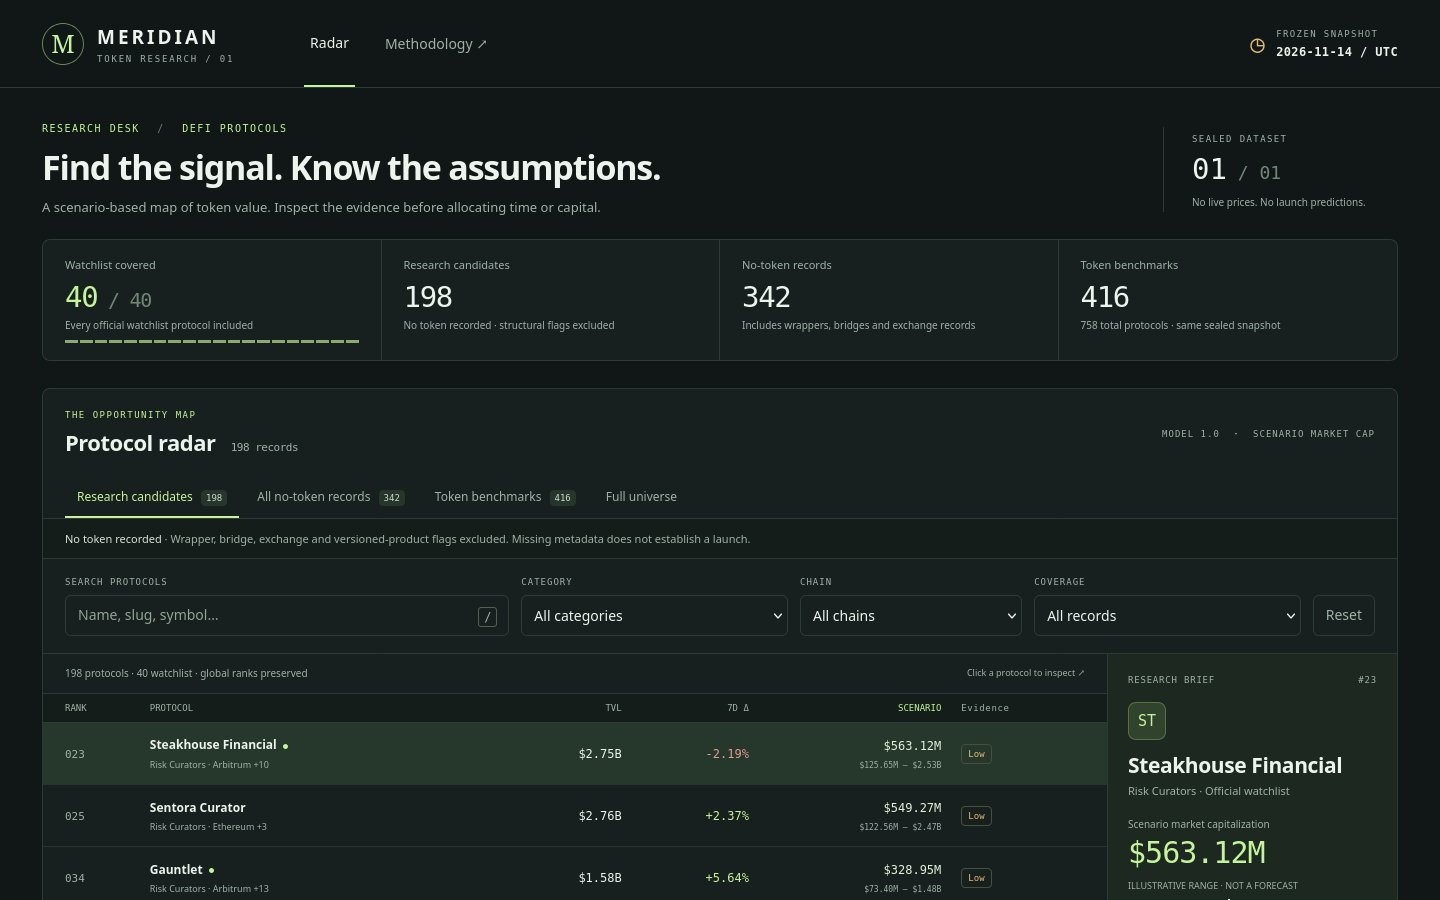
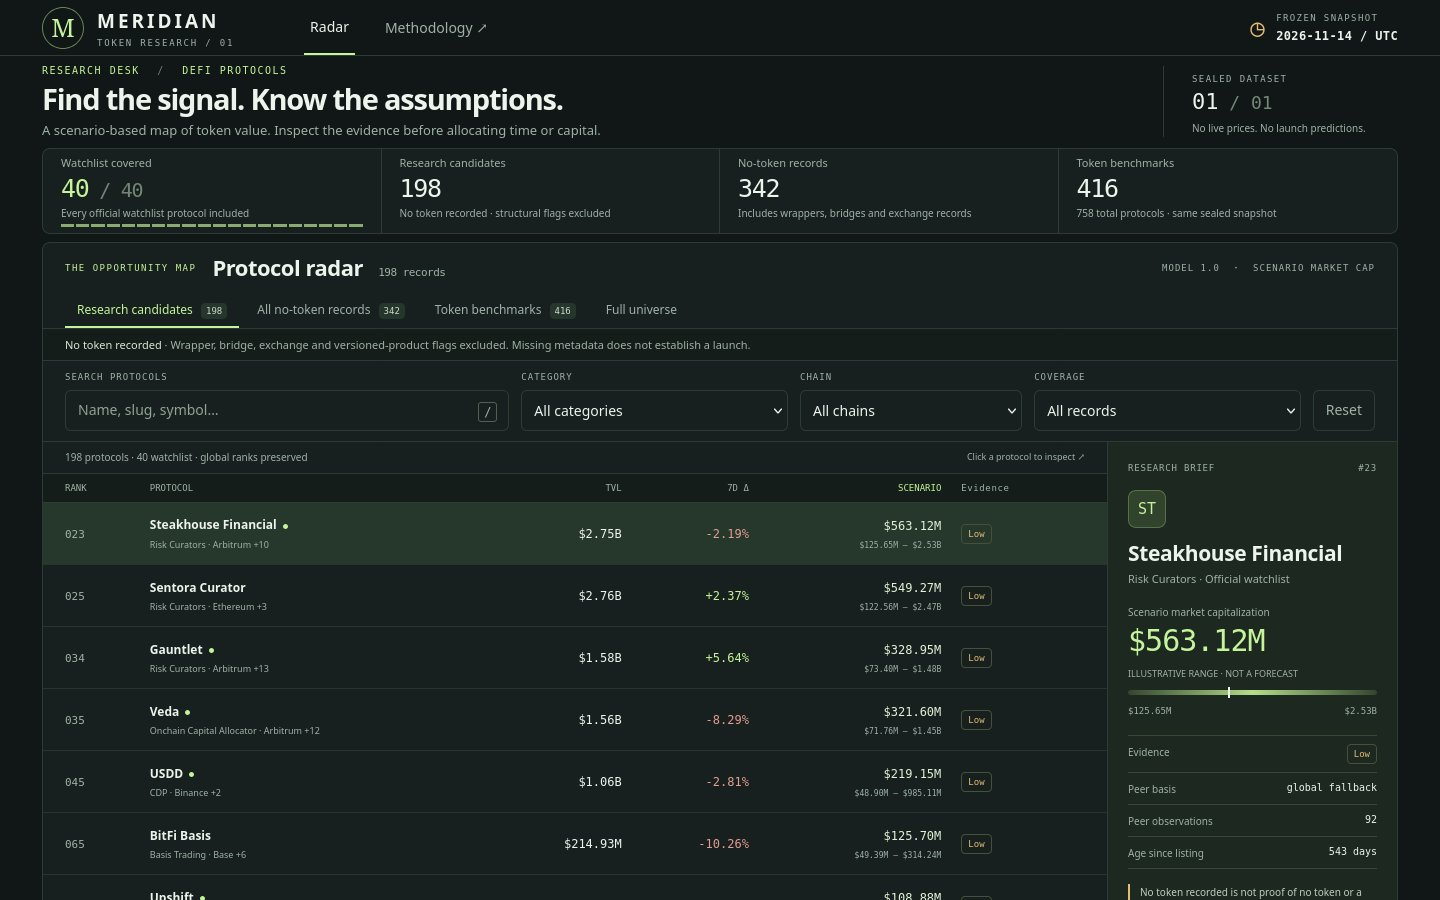
Finalize compact radar layout, ownership and normalized output guard

diff --git a/dashboard/app.css b/dashboard/app.css
@@ -1,6 +1,27 @@
 /* Meridian: mineral charcoal, pale mint, muted amber. System fonts only. */
 :root{--bg:#101716;--panel:#17201e;--panel2:#1c2724;--line:#2d3b36;--ink:#edf4ed;--muted:#a0b2a8;--mint:#c6f49c;--amber:#e4bd77;--red:#e49b93;--mono:ui-monospace,SFMono-Regular,Consolas,monospace}
 *{box-sizing:border-box}body{margin:0;background:var(--bg);color:var(--ink);font:14px/1.5 system-ui,-apple-system,BlinkMacSystemFont,"Segoe UI",sans-serif}button,input,select{font:inherit}button{cursor:pointer;color:inherit}button,input,select{border:1px solid var(--line);background:var(--panel);border-radius:6px}button:hover{background:#2a3931}button:disabled{opacity:.35;cursor:default}button:focus-visible,a:focus-visible,input:focus-visible,select:focus-visible,div[tabindex]:focus-visible{outline:2px solid var(--mint);outline-offset:3px}button{padding:8px 12px}input,select{color:var(--ink);padding:10px 12px;width:100%;height:41px}select{padding-right:24px}input::placeholder{color:#92a397}h1,h2,h3,p{margin-top:0}h1{font-size:34px;line-height:1.13;letter-spacing:-1.2px;margin-bottom:12px;font-weight:550}h2{font-size:22px;letter-spacing:-.5px;margin-bottom:0;font-weight:550}h3{font-size:16px;font-weight:600;margin-bottom:8px}.topbar{height:88px;border-bottom:1px solid var(--line);display:flex;align-items:center;justify-content:space-between;padding:0 42px;gap:30px}.brand{display:flex;gap:13px;align-items:center;font-size:19px;letter-spacing:3px;font-weight:600}.brand-mark{font:25px Georgia,serif;display:grid;place-items:center;width:42px;height:42px;color:var(--mint);border:1px solid #688359;border-radius:50%;letter-spacing:-3px;padding-right:3px}.brand-sub{display:block;font:9px var(--mono);letter-spacing:1.8px;margin-top:3px;color:var(--muted)}nav{display:flex;gap:24px;margin-right:auto;margin-left:40px;height:100%;align-items:stretch}nav button{border:0;border-radius:0;background:none;padding:0 6px;color:var(--muted)}nav .nav-active{border-bottom:2px solid var(--mint);color:var(--ink)}nav button:hover{background:none;color:var(--mint)}.freeze{display:flex;gap:10px;align-items:center;font:9px var(--mono);letter-spacing:1.4px;color:var(--muted)}.freeze strong{display:block;color:var(--ink);font-size:12px;letter-spacing:.4px;margin-top:4px}.frozen-icon{font-size:24px;color:var(--amber)}main{max-width:1600px;margin:auto;padding:30px 42px 0}.intro{display:flex;align-items:center;justify-content:space-between;padding:4px 0 22px;gap:30px}.eyebrow{font:10px var(--mono);letter-spacing:1.5px;color:var(--mint);margin-bottom:12px}.eyebrow span{color:#6f8176;margin:0 10px}.lede{color:var(--muted);font-size:13px;margin-bottom:0}.edition{border-left:1px solid var(--line);padding-left:28px;min-width:235px}.edition>span{font:9px var(--mono);letter-spacing:1.4px;color:var(--muted)}.edition strong{display:block;font:29px var(--mono);margin:4px 0}.edition strong span{color:#74887a;font-size:18px}.edition small{color:var(--muted);font-size:10px}.metrics{display:grid;grid-template-columns:repeat(4,1fr);border:1px solid var(--line);margin-bottom:27px;border-radius:8px;background:var(--panel)}.metric{padding:17px 22px;border-right:1px solid var(--line)}.metric:last-child{border:0}.metric-label{color:var(--muted);font-size:11px;display:flex;justify-content:space-between}.metric-value{font:29px var(--mono);letter-spacing:-1.3px;margin:6px 0 3px}.metric-value .slash{color:#718675;font-size:20px}.metric-note{font-size:10px;color:var(--muted)}.metric:first-child .metric-value{color:var(--mint)}.mini-bar{display:flex;gap:2px;margin-top:8px;height:3px}.mini-bar span{flex:1;background:var(--mint);opacity:.65}.workspace{border:1px solid var(--line);border-radius:8px;background:var(--panel);overflow:hidden}.workspace-head{display:flex;justify-content:space-between;align-items:center;padding:20px 22px 17px;gap:12px}.workspace-head .eyebrow{font-size:9px;margin-bottom:5px}.workspace-head h2>span{font:11px var(--mono);color:var(--muted);margin-left:10px}.model-tag{font:9px var(--mono);letter-spacing:1px;color:var(--muted)}.model-tag span{padding:0 7px;color:var(--mint)}.view-tabs{display:flex;gap:6px;padding:0 22px;border-bottom:1px solid var(--line)}.view-tabs button{font-size:12px;border:0;background:none;border-radius:0;padding:11px 12px;color:var(--muted);border-bottom:2px solid transparent}.view-tabs button[aria-pressed=true]{border-bottom-color:var(--mint);color:var(--mint)}.view-tabs button span{background:#26362c;border-radius:4px;padding:2px 5px;font:9px var(--mono);margin-left:5px;color:#ccdbcb}.view-note{font-size:11px;color:var(--muted);padding:11px 22px;background:#141d19;border-bottom:1px solid var(--line)}.view-note b{color:#d9e6d7;font-weight:500}.filters{display:grid;grid-template-columns:2fr 1.2fr 1fr 1.2fr auto;align-items:end;gap:12px;padding:17px 22px}.label{font:9px var(--mono);color:var(--muted);display:block;letter-spacing:1px;margin-bottom:7px}.search-wrap{position:relative}.search-wrap kbd{position:absolute;right:12px;bottom:9px;border:1px solid #526053;color:var(--muted);padding:0 5px;border-radius:3px;font-size:12px}input[type=search]{padding-right:38px}.quiet{height:41px;color:var(--muted);background:none}.board-layout{display:grid;grid-template-columns:minmax(0,1fr) 284px;border-top:1px solid var(--line)}.board-main{min-width:0}.table-meta{display:flex;justify-content:space-between;padding:12px 22px;font-size:10px;color:var(--muted)}.table-meta>span:last-child{font-size:9px}.table-scroll{overflow-x:auto;scrollbar-color:#5a705e #16221a}table{width:100%;border-collapse:collapse;white-space:nowrap}th{text-align:left;color:var(--muted);font:9px var(--mono);letter-spacing:.6px;padding:8px 10px;background:#141d19;border-top:1px solid var(--line);border-bottom:1px solid var(--line)}th:first-child,td:first-child{padding-left:22px}th:last-child,td:last-child{padding-right:19px}th button{font:inherit;border:0;background:none;padding:0;text-transform:uppercase;color:inherit}th[aria-sort] button{color:var(--mint)}td{padding:12px 10px;border-bottom:1px solid #27352d;font-size:12px;height:63px}td:first-child{font:11px var(--mono);color:var(--muted)}tr.selected{background:#26372b}tr:hover{background:#223127}.numeric{text-align:right;font-family:var(--mono);font-variant-numeric:tabular-nums}.protocol-button{display:block;border:0;background:none;padding:0;text-align:left;font-size:12px;font-weight:600}.protocol-button:hover{background:none;color:var(--mint)}.protocol-meta{display:block;font-size:9px;color:var(--muted);margin-top:4px;max-width:200px;overflow:hidden;text-overflow:ellipsis}.watch-dot{display:inline-block;background:var(--mint);width:5px;height:5px;border-radius:50%;margin-left:6px;vertical-align:middle}.up{color:var(--mint)}.down{color:var(--red)}.scenario{color:#e1f2d7}.scenario small{display:block;font-size:8px;color:var(--muted);margin-top:4px}.badge{display:inline-flex;font:9px var(--mono);padding:3px 6px;border:1px solid #47503a;border-radius:4px;color:var(--amber);white-space:nowrap}.badge.moderate{color:var(--mint);border-color:#4d6440}.badge.recorded{color:#b4cbe8;border-color:#405569}.pagination{display:flex;justify-content:space-between;align-items:center;padding:12px 22px;font:10px var(--mono);color:var(--muted)}.pagination>div{display:flex;gap:8px}.pagination button{padding:4px 11px;font-size:14px}.workspace-foot{display:flex;justify-content:space-between;align-items:center;padding:11px 22px;border-top:1px solid var(--line);font-size:10px;color:var(--muted);gap:15px}.workspace-foot button{padding:0;border:0;background:none;font-size:10px;color:var(--mint)}.workspace-foot span:first-child{color:var(--ink)}#inspector{background:#1c2820;border-left:1px solid var(--line);padding:20px}.inspector-kicker{display:flex;justify-content:space-between;align-items:center;font:9px var(--mono);color:var(--muted);letter-spacing:.8px;margin-bottom:16px}.protocol-icon{width:38px;height:38px;display:grid;place-items:center;background:#31432c;border:1px solid #57724b;border-radius:8px;color:var(--mint);font:15px var(--mono);margin-bottom:13px}.inspect-title{font-size:21px;line-height:1.15;letter-spacing:-.4px;margin-bottom:6px}.inspect-category{font-size:11px;color:var(--muted);margin-bottom:17px}.inspect-value-label{font-size:10px;color:var(--muted);margin-bottom:3px}.inspect-value{font:30px var(--mono);letter-spacing:-1px;color:var(--mint)}.range-label{font-size:9px;color:var(--muted);margin:8px 0 5px}.range-track{height:5px;background:linear-gradient(90deg,#34452f,#b4dd8a,#34452f);position:relative;border-radius:5px;margin:10px 0}.range-track:after{content:"";position:absolute;left:40%;top:-3px;height:11px;width:2px;background:var(--ink)}.range-numbers{display:flex;justify-content:space-between;font:9px var(--mono);color:var(--muted)}.preview-facts{margin:18px 0 15px;border-top:1px solid #394736}.preview-facts>div{display:flex;justify-content:space-between;padding:8px 0;border-bottom:1px solid #394736;font-size:10px;color:var(--muted)}.preview-facts strong{font:10px var(--mono);color:var(--ink)}.caution{font-size:10px;color:#c4cdbb;line-height:1.6;padding-left:10px;border-left:2px solid var(--amber);margin:14px 0}.primary{background:var(--mint);color:#1c2a16;border-color:var(--mint);font-size:11px;font-weight:650;width:100%;padding:10px}.primary:hover{background:#d9ffb7}.footer{display:flex;justify-content:space-between;font:9px var(--mono);color:var(--muted);padding:19px 0 22px}.footer>span:first-child{color:var(--ink);letter-spacing:.7px}.muted{color:var(--muted)}.mobile-only{display:none}.sr-only{position:absolute;width:1px;height:1px;padding:0;overflow:hidden;clip:rect(0,0,0,0);white-space:nowrap}.skip{position:absolute;top:-60px;left:20px;z-index:20;padding:10px;background:var(--mint);color:#15200f}.skip:focus{top:10px}#empty{text-align:center;padding:60px 15px;color:var(--muted)}#empty h3{color:var(--ink)}dialog{color:var(--ink);background:var(--panel);border:1px solid #50634e;border-radius:12px;width:min(1120px,94vw);max-height:92vh;padding:0;box-shadow:0 30px 100px #0008}dialog::backdrop{background:#080e0bc9;backdrop-filter:blur(4px)}.dialog-header{display:flex;justify-content:space-between;align-items:center;padding:23px 28px;border-bottom:1px solid var(--line);gap:20px}.dialog-header .eyebrow{margin-bottom:6px}.dialog-header h2{font-size:27px}.close{font-size:24px;line-height:1;padding:7px 11px;background:none}.detail-grid{display:grid;grid-template-columns:38% 62%}.detail-evidence{padding:22px 27px;border-right:1px solid var(--line);background:#19251d}.detail-plan{padding:22px 27px}.detail-kpis{display:grid;grid-template-columns:1fr 1fr;gap:15px;margin:18px 0}.detail-kpis dt{font-size:10px;color:var(--muted)}.detail-kpis dd{margin:4px 0 0;font:14px var(--mono)}.factor-list{padding:0;margin:15px 0;list-style:none}.factor-list li{display:flex;justify-content:space-between;border-bottom:1px solid var(--line);padding:7px 0;font-size:11px;gap:10px}.factor-list b{font:11px var(--mono);color:var(--mint)}details{margin-top:13px;font-size:11px;color:var(--muted)}summary{cursor:pointer;color:var(--ink);padding:4px 0}.peer-list{font:9px/1.7 var(--mono);overflow-wrap:anywhere;max-height:130px;overflow:auto;padding:8px 0}.plan-heading{display:flex;justify-content:space-between;align-items:center;gap:10px}.plan-heading h3{font-size:19px;margin-bottom:3px}.plan-heading span{font:10px var(--mono);color:var(--mint)}.planning-label{color:var(--amber);font-size:10px;margin:10px 0 15px}.checklist{list-style:none;padding:0;margin:0;counter-reset:steps}.checklist li{display:flex;gap:10px;padding:13px 0;border-top:1px solid var(--line);font-size:11px;line-height:1.65;color:#cfdbcf}.checklist input{width:16px;height:16px;flex-shrink:0;accent-color:var(--mint);margin:3px 0}.checklist label{cursor:pointer}.checklist input:checked+label{color:var(--muted);text-decoration:line-through}.checklist label strong{display:block;font:9px var(--mono);color:var(--mint);margin-bottom:5px;letter-spacing:.6px}.detail-status{font:10px var(--mono);color:var(--muted);margin-top:12px}.method-body{padding:25px 28px}.large-copy{font-size:19px;color:#d9e8d4}.formula{background:#253621;border:1px solid #4b6141;color:var(--mint);padding:17px;font:14px var(--mono);text-align:center;margin:20px 0}.formula b{color:#809975;padding:0 6px}.method-grid{display:grid;grid-template-columns:1fr 1fr;gap:23px 30px}.method-grid p{color:var(--muted);font-size:12px;line-height:1.7}.step-label{display:block;color:var(--mint);font:9px var(--mono);letter-spacing:1px;margin-bottom:9px}.method-alert{border-left:2px solid var(--amber);background:#2a2b20;padding:12px 16px;margin:15px 0;font-size:12px;color:#e0d5b8}.method-body>.muted,.source-text{font-size:10px;overflow-wrap:anywhere}.warning-list{padding-left:15px;font-size:10px;color:var(--amber);line-height:1.65}
+/* Desktop density: reclaim chrome space, never reduce table or detail typography. */
+@media(min-width:1101px){
+  .topbar{height:56px}
+  main{padding-top:8px}
+  .intro{padding:0 0 8px;min-height:0}
+  .intro .eyebrow{margin-bottom:5px}
+  .intro h1{font-size:29px;line-height:1.15;margin-bottom:5px}
+  .intro .lede{margin:0;font-size:13px}
+  .edition strong{font-size:22px;margin:1px 0}
+  .metrics{margin-bottom:8px}
+  .metric{padding:6px 18px}
+  .metric-value{font-size:25px;margin:2px 0}
+  .mini-bar{margin-top:4px}
+  .workspace-head{padding:8px 22px}
+  .workspace-head .eyebrow{margin-bottom:0}
+  .workspace-head>div{display:flex;align-items:center;gap:16px}
+  .view-tabs button{padding-top:8px;padding-bottom:8px}
+  .view-note{padding-top:7px;padding-bottom:7px}
+  .filters{padding-top:10px;padding-bottom:10px}
+  .table-meta{padding-top:8px;padding-bottom:8px}
+}
 @media(min-width:1300px){td{height:62px}.board-layout{grid-template-columns:minmax(0,1fr) 290px}}
 @media(max-width:1100px){main{padding:25px 24px 0}.topbar{padding:0 24px}nav{margin-left:10px}.edition{display:none}.board-layout{grid-template-columns:minmax(0,1fr) 245px}.confidence-col{display:none}.filters{grid-template-columns:1.5fr 1fr 1fr 1fr auto}.view-tabs button{font-size:11px;padding:11px 7px}.workspace-foot>span:nth-child(2){display:none}}
 @media(max-width:800px){.topbar{height:72px;padding:0 16px;gap:15px}.brand{font-size:16px}.brand-mark{width:33px;height:33px}.brand-sub{font-size:7px}nav{margin-left:auto;gap:10px}nav button{font-size:11px}.freeze{display:none}main{padding:22px 14px 0}h1{font-size:29px}.intro{padding-bottom:22px}.lede{font-size:12px}.metrics{grid-template-columns:1fr 1fr;margin-bottom:20px}.metric{padding:14px}.metric:nth-child(2){border-right:0}.metric:nth-child(-n+2){border-bottom:1px solid var(--line)}.metric-value{font-size:26px}.workspace-head{padding:17px 15px}.model-tag{display:none}.view-tabs{padding:0 10px;flex-wrap:wrap}.view-tabs button{font-size:10px;padding:10px 6px}.view-tabs button span{font-size:8px}.view-note{padding:10px 15px}.filters{padding:15px;grid-template-columns:1fr 1fr;gap:10px}.search-wrap{grid-column:1/-1}.quiet{height:35px;grid-column:1/-1}.board-layout{display:block}#inspector{border-left:0;border-top:1px solid var(--line);display:none}.table-meta{padding:10px 15px}.table-meta>span:last-child{display:none}table{min-width:590px}.pagination{padding:12px 15px}.workspace-foot{padding:12px 15px;font-size:9px}.footer{font-size:8px;gap:15px;flex-wrap:wrap}.detail-grid{grid-template-columns:1fr}.detail-evidence{border-right:0;border-bottom:1px solid var(--line)}.detail-evidence,.detail-plan{padding:20px}.dialog-header{padding:19px 20px}.dialog-header h2{font-size:23px}.method-grid{grid-template-columns:1fr}.method-body{padding:20px}.formula{font-size:11px;line-height:1.8}.checklist li{font-size:12px}}

diff --git a/main.ts b/main.ts
@@ -5,7 +5,7 @@ import { fileURLToPath } from 'node:url';
 import { parseSnapshot, buildRadar } from './dashboard/model.mjs';
 import { buildDossier } from './vendor/makefun-board.ts';
 
-const root = fileURLToPath(new URL('.', import.meta.url));
+const root = resolve(fileURLToPath(new URL('.', import.meta.url)));
 function run() {
   const args = process.argv.slice(2);
   let input = '/input/snapshot.json';

diff --git a/tests/browser_test.py b/tests/browser_test.py
@@ -53,6 +53,17 @@ try:
                 r = by_slug[slug]
                 assert r['token_status'] == 'unrecorded' and not r['structural_caution']
             checks.append('default candidate coverage and board agreement')
+            geometry = page.evaluate('''() => {
+                const rows = [...document.querySelectorAll('#rows tr')].map(e => e.getBoundingClientRect());
+                const range = document.querySelector('#inspector .range-numbers').getBoundingClientRect();
+                return { first_row_top: rows[0].top,
+                    fully_visible_rows: rows.filter(r => r.top >= 0 && r.bottom <= innerHeight).length,
+                    inspector_range_bottom: range.bottom, viewport_height: innerHeight };
+            }''')
+            print('Desktop geometry:', json.dumps(geometry), flush=True)
+            assert geometry['fully_visible_rows'] >= 6, 'at least six complete rows must fit at 100% zoom'
+            assert geometry['inspector_range_bottom'] <= 900, 'inspector range must fit'
+            checks.append('1440x900 density: six complete rows and inspector range visible')
             page.screenshot(path=str(captures / '1-board.jpg'), type='jpeg', quality=85)
             first = visible_slugs()[0]
             page.locator('#rows .protocol-button').first.focus()

diff --git a/README.md b/README.md
@@ -1,6 +1,6 @@
 # Meridian — Token Radar
 
-Original offline research workspace for token-radar-01. Build and local verification only; no publication or submission performed.
+An offline token research workspace for the sealed token-radar-01 snapshot. Explore ranked valuation scenarios, inspect the underlying evidence, and review conditional farm plans in an original dark-green financial dashboard.
 
 ## Run
 
@@ -24,6 +24,6 @@ Ranges are sensitivity scenarios, not probability intervals. Market capitalizati
 
 ## Verified locally
 
-Five Node tests pass: malformed input, real coverage/order/plan bounds, missing/zero/outlier values, leave-one-token-out peers, and deterministic ties. Firefox checks pass for search, combined filters, sorting, pagination, two details, exact farm-step agreement, checklist, keyboard focus, methodology, mobile overflow and zero external requests/JS errors. Two independent full builds produced identical file trees. Captures are genuine, unedited browser screenshots.
+Six Node tests pass: malformed input, real coverage/order/plan bounds, missing/zero/outlier values, leave-one-token-out peers, deterministic ties, and normalized output-path rejection. Firefox checks pass for search, combined filters, sorting, pagination, two details, exact farm-step agreement, checklist, keyboard focus, methodology, mobile overflow and zero external requests/JS errors. Two independent full builds produced identical file trees. Captures are genuine, unedited browser screenshots.
 
 Anchor: a8fbc0d9b6a42acbbaede84e8a9db08adb97fc12, drand round 33973827. The official vendor library is unmodified. Preserve the anchor history and bundle every genuine build session unchanged with the official CLI. The supervising session is responsible for publication/submission and final transcript eligibility verification.
